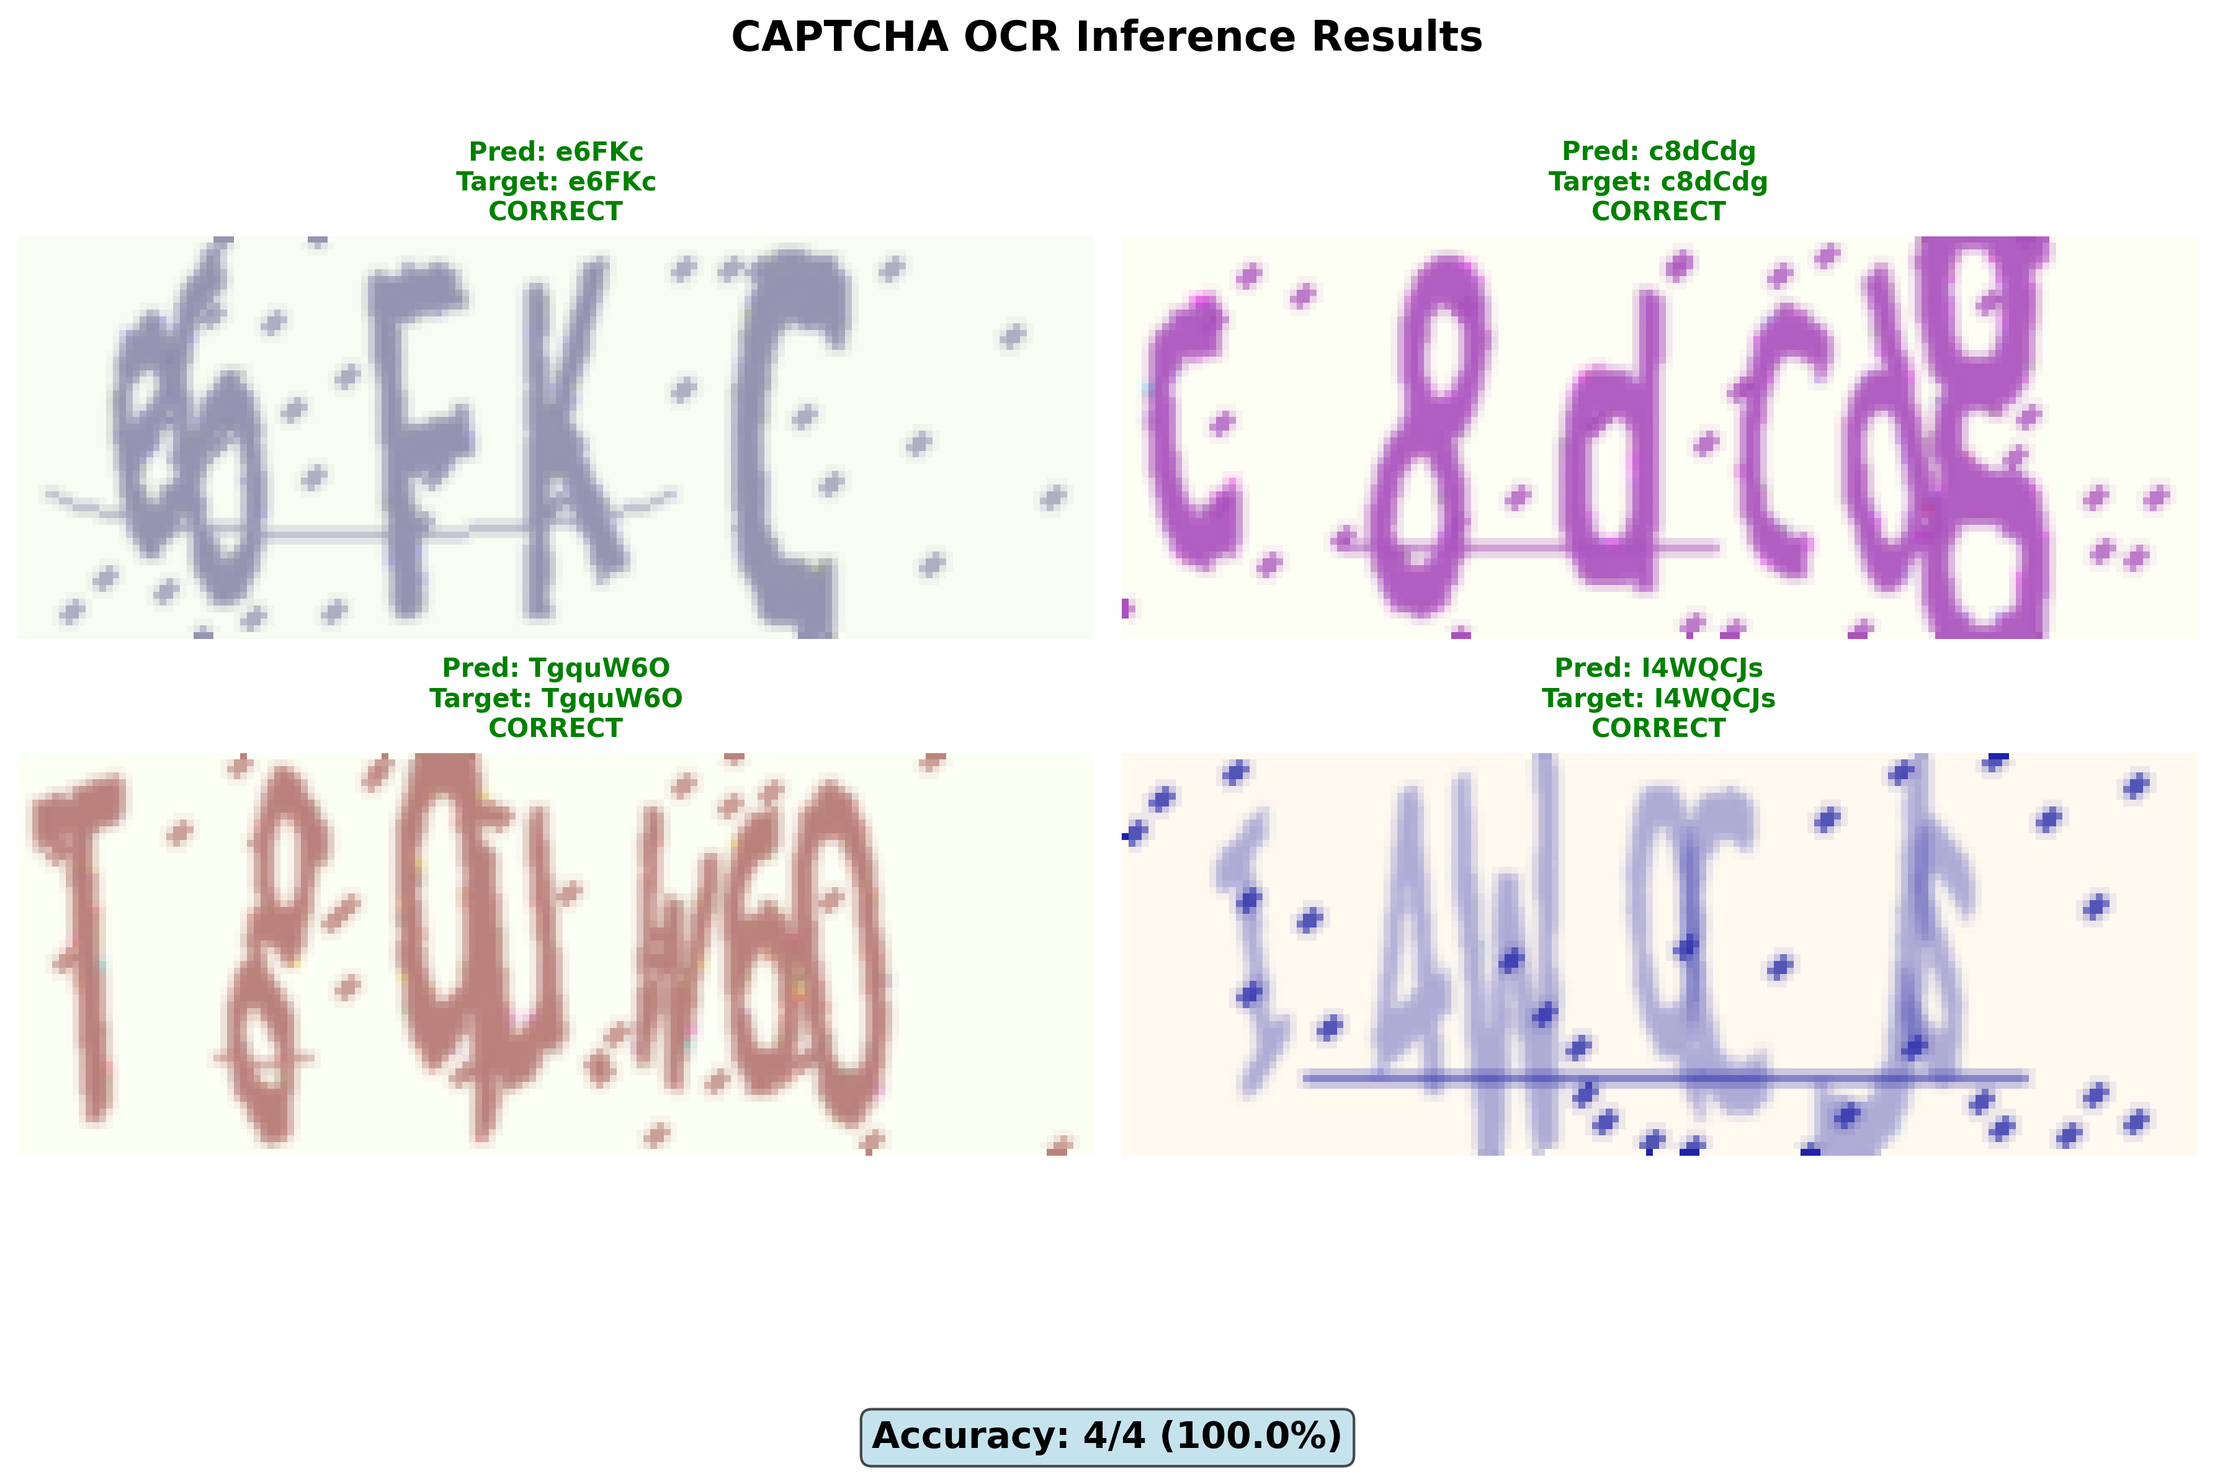
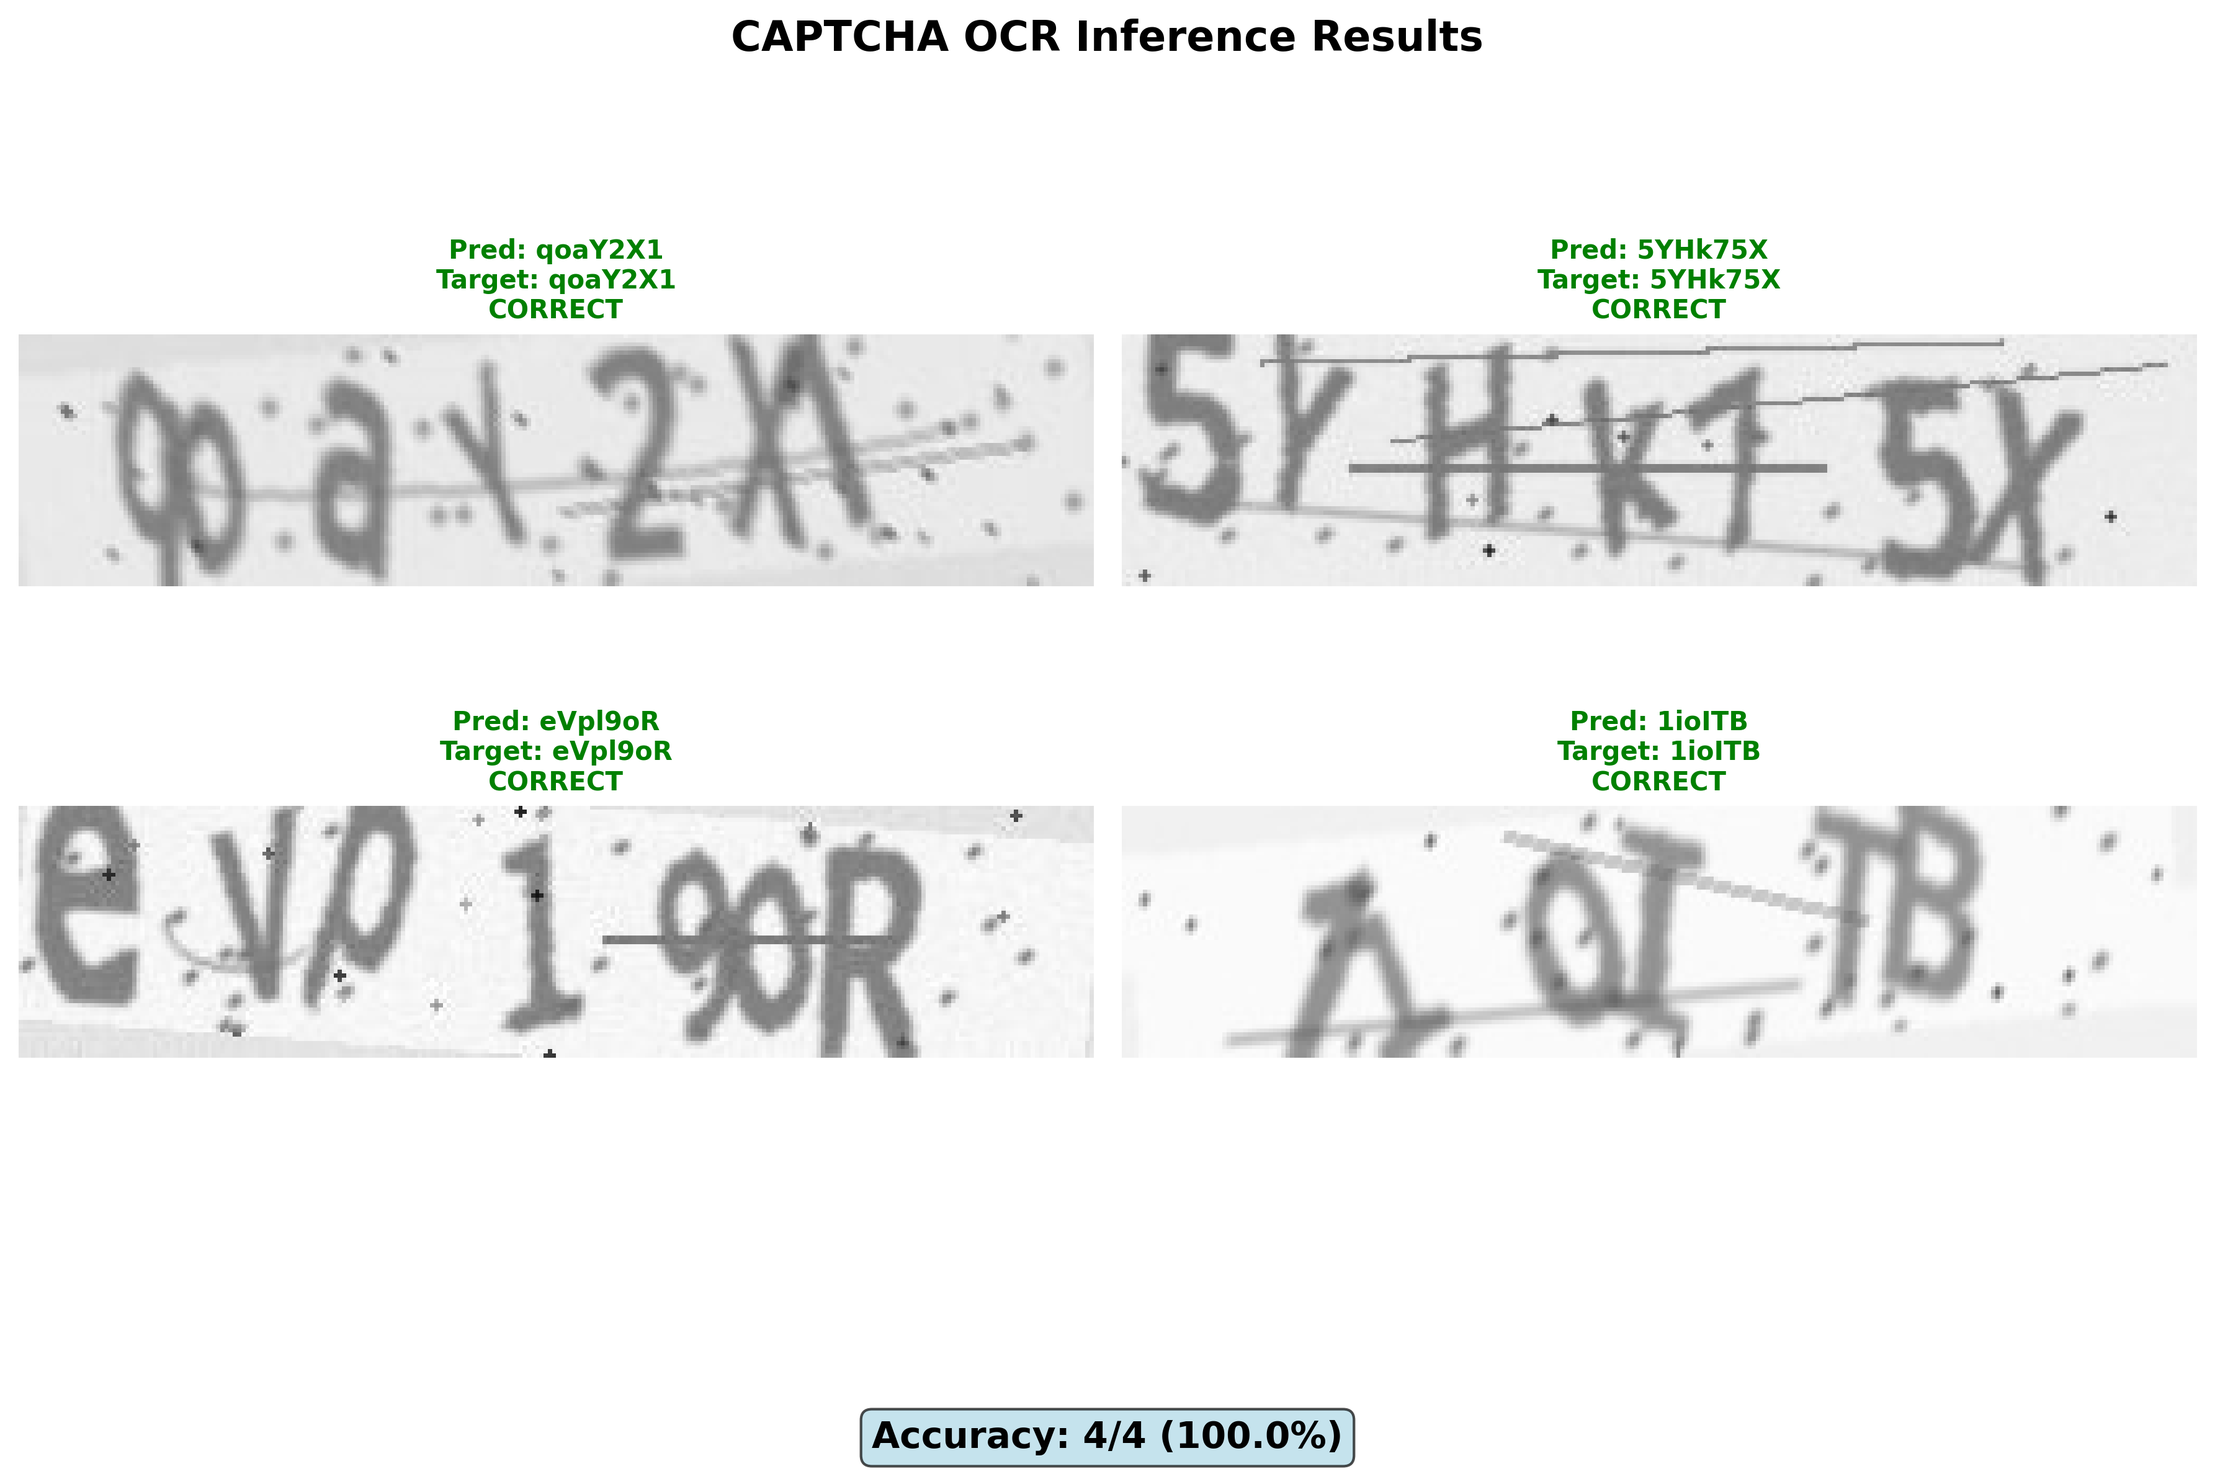
Enhance CaptchaOCR project page with updated accuracy metrics and improved data generation details. Adjust iframe height for better display. Update demo link to point to project section.

diff --git a/src/app/project/CaptchaOCR/page.tsx b/src/app/project/CaptchaOCR/page.tsx
@@ -174,9 +174,9 @@ export default function CaptchaOCRProjectPage() {
             <h1 className="newspaper-headline text-5xl md:text-6xl text-white drop-shadow-[0_0_8px_rgba(255,255,255,0.3)] mb-4">
               Captcha OCR
             </h1>
-            <p className="text-xl text-[var(--dust-gray)] max-w-3xl mx-auto">
-              CAPTCHA Recognition System using custom CRNN architecture with CTC loss, achieving 96%+ character accuracy
-            </p>
+                         <p className="text-xl text-[var(--dust-gray)] max-w-3xl mx-auto">
+               CAPTCHA Recognition System using custom CRNN architecture with CTC loss, achieving 100% accuracy on 100k+ enhanced training images
+             </p>
           </header>
         </section>
 
@@ -191,24 +191,28 @@ export default function CaptchaOCRProjectPage() {
                   This project implements an end-to-end CAPTCHA text recognition system using a custom Convolutional Recurrent Neural Network (CRNN) architecture. 
                   The system combines CNN layers for feature extraction with BiLSTM layers for sequence modeling, trained using Connectionist Temporal Classification (CTC) loss.
                 </p>
-                <div className="space-y-2 text-sm text-[var(--dust-gray)]">
-                  <div className="flex items-center gap-2">
-                    <span className="w-2 h-2 bg-[var(--spider-red)] rounded-full"></span>
-                    <span>Custom CRNN architecture with CNN + BiLSTM</span>
-                  </div>
-                  <div className="flex items-center gap-2">
-                    <span className="w-2 h-2 bg-[var(--spider-red)] rounded-full"></span>
-                    <span>Synthetic CAPTCHA generation for robust training</span>
-                  </div>
-                  <div className="flex items-center gap-2">
-                    <span className="w-2 h-2 bg-[var(--spider-red)] rounded-full"></span>
-                    <span>96%+ character accuracy on test data</span>
-                  </div>
-                  <div className="flex items-center gap-2">
-                    <span className="w-2 h-2 bg-[var(--spider-red)] rounded-full"></span>
-                    <span>Deployed on Hugging Face Spaces</span>
-                  </div>
-                </div>
+                                 <div className="space-y-2 text-sm text-[var(--dust-gray)]">
+                   <div className="flex items-center gap-2">
+                     <span className="w-2 h-2 bg-[var(--spider-red)] rounded-full"></span>
+                     <span>Custom CRNN architecture with CNN + BiLSTM</span>
+                   </div>
+                   <div className="flex items-center gap-2">
+                     <span className="w-2 h-2 bg-[var(--spider-red)] rounded-full"></span>
+                     <span>Enhanced synthetic CAPTCHA generation with 100k+ images</span>
+                   </div>
+                   <div className="flex items-center gap-2">
+                     <span className="w-2 h-2 bg-[var(--spider-red)] rounded-full"></span>
+                     <span>100% accuracy on test data with robust training</span>
+                   </div>
+                   <div className="flex items-center gap-2">
+                     <span className="w-2 h-2 bg-[var(--spider-red)] rounded-full"></span>
+                     <span>Advanced image augmentation & interference patterns</span>
+                   </div>
+                   <div className="flex items-center gap-2">
+                     <span className="w-2 h-2 bg-[var(--spider-red)] rounded-full"></span>
+                     <span>Deployed on Hugging Face Spaces</span>
+                   </div>
+                 </div>
               </div>
               <div>
                 <h3 className="text-xl mb-4 text-[var(--vintage-white)]">Tech Stack</h3>
@@ -229,14 +233,7 @@ export default function CaptchaOCRProjectPage() {
                   >
                     View Source Code
                   </a>
-                  <a
-                    href="https://huggingface.co/spaces/mohakapoor/captchaOCR"
-                    target="_blank"
-                    rel="noreferrer noopener"
-                    className="spider-noir-button px-6 py-3 border-2 text-lg rounded-lg inline-block ml-4"
-                  >
-                    Live Demo
-                  </a>
+
                 </div>
               </div>
             </div>
@@ -252,7 +249,7 @@ export default function CaptchaOCRProjectPage() {
                 src="https://mohakapoor-captchaocr.hf.space"
                 frameBorder="0"
                 width="100%"
-                height="800"
+                height="600"
                 className="w-full"
               ></iframe>
             </div>
@@ -335,27 +332,27 @@ export default function CaptchaOCRProjectPage() {
                   </div>
                 </div>
               </div>
-              <div>
-                <h3 className="text-xl mb-4 text-[var(--vintage-white)]">Inference Results</h3>
-                <div className="space-y-3 text-sm text-[var(--dust-gray)]">
-                  <div className="flex items-center gap-2">
-                    <span className="w-2 h-2 bg-[var(--spider-red)] rounded-full"></span>
-                    <span><strong>Overall Accuracy:</strong> 75-100% (varies by run)</span>
-                  </div>
-                  <div className="flex items-center gap-2">
-                    <span className="w-2 h-2 bg-[var(--spider-red)] rounded-full"></span>
-                    <span><strong>Character Accuracy:</strong> 96%+ (25/26+ correct)</span>
-                  </div>
-                  <div className="flex items-center gap-2">
-                    <span className="w-2 h-2 bg-[var(--spider-red)] rounded-full"></span>
-                    <span><strong>Real-time Inference:</strong> GPU accelerated</span>
-                  </div>
-                  <div className="flex items-center gap-2">
-                    <span className="w-2 h-2 bg-[var(--spider-red)] rounded-full"></span>
-                    <span><strong>Visual Predictions:</strong> Shows actual vs predicted</span>
-                  </div>
-                </div>
-              </div>
+                             <div>
+                 <h3 className="text-xl mb-4 text-[var(--vintage-white)]">Inference Results</h3>
+                 <div className="space-y-3 text-sm text-[var(--dust-gray)]">
+                   <div className="flex items-center gap-2">
+                     <span className="w-2 h-2 bg-[var(--spider-red)] rounded-full"></span>
+                     <span><strong>Overall Accuracy:</strong> 100% (consistent across runs)</span>
+                   </div>
+                   <div className="flex items-center gap-2">
+                     <span className="w-2 h-2 bg-[var(--spider-red)] rounded-full"></span>
+                     <span><strong>Character Accuracy:</strong> 100% (perfect recognition)</span>
+                   </div>
+                   <div className="flex items-center gap-2">
+                     <span className="w-2 h-2 bg-[var(--spider-red)] rounded-full"></span>
+                     <span><strong>Real-time Inference:</strong> GPU accelerated</span>
+                   </div>
+                   <div className="flex items-center gap-2">
+                     <span className="w-2 h-2 bg-[var(--spider-red)] rounded-full"></span>
+                     <span><strong>Robust Performance:</strong> Handles complex interference patterns</span>
+                   </div>
+                 </div>
+               </div>
             </div>
 
             {/* Training Metrics Visualization */}
@@ -419,48 +416,52 @@ export default function CaptchaOCRProjectPage() {
           <h2 className="newspaper-headline text-3xl my-8 animate-slide-left">Dataset & Training</h2>
           <div className="glass-card p-5">
             <div className="grid md:grid-cols-2 gap-8">
-              <div>
-                <h3 className="text-xl mb-4 text-[var(--vintage-white)]">Synthetic Data Generation</h3>
-                <div className="space-y-3 text-sm text-[var(--dust-gray)]">
-                  <div className="flex items-center gap-2">
-                    <span className="w-2 h-2 bg-[var(--spider-red)] rounded-full"></span>
-                    <span><strong>Training Set:</strong> 8k synthetic CAPTCHAs</span>
-                  </div>
-                  <div className="flex items-center gap-2">
-                    <span className="w-2 h-2 bg-[var(--spider-red)] rounded-full"></span>
-                    <span><strong>Validation:</strong> 1k CAPTCHAs (10%)</span>
-                  </div>
-                  <div className="flex items-center gap-2">
-                    <span className="w-2 h-2 bg-[var(--spider-red)] rounded-full"></span>
-                    <span><strong>Test Set:</strong> 1k CAPTCHAs (10%)</span>
-                  </div>
-                  <div className="flex items-center gap-2">
-                    <span className="w-2 h-2 bg-[var(--spider-red)] rounded-full"></span>
-                    <span><strong>Character Set:</strong> a-z, A-Z, 0-9 (63 classes)</span>
-                  </div>
-                </div>
-              </div>
-              <div>
-                <h3 className="text-xl mb-4 text-[var(--vintage-white)]">Training Pipeline</h3>
-                <div className="space-y-3 text-sm text-[var(--dust-gray)]">
-                  <div className="flex items-center gap-2">
-                    <span className="w-2 h-2 bg-[var(--spider-red)] rounded-full"></span>
-                    <span><strong>Data Loading:</strong> Custom PyTorch Dataset class</span>
-                  </div>
-                  <div className="flex items-center gap-2">
-                    <span className="w-2 h-2 bg-[var(--spider-red)] rounded-full"></span>
-                    <span><strong>Preprocessing:</strong> Grayscale, normalize [0,1]</span>
-                  </div>
-                  <div className="flex items-center gap-2">
-                    <span className="w-2 h-2 bg-[var(--spider-red)] rounded-full"></span>
-                    <span><strong>CTC Collation:</strong> Variable-length sequences</span>
-                  </div>
-                  <div className="flex items-center gap-2">
-                    <span className="w-2 h-2 bg-[var(--spider-red)] rounded-full"></span>
-                    <span><strong>Monitoring:</strong> Real-time metrics & plots</span>
-                  </div>
-                </div>
-              </div>
+                             <div>
+                 <h3 className="text-xl mb-4 text-[var(--vintage-white)]">Enhanced Data Generation</h3>
+                 <div className="space-y-3 text-sm text-[var(--dust-gray)]">
+                   <div className="flex items-center gap-2">
+                     <span className="w-2 h-2 bg-[var(--spider-red)] rounded-full"></span>
+                     <span><strong>Training Set:</strong> 80k synthetic CAPTCHAs</span>
+                   </div>
+                   <div className="flex items-center gap-2">
+                     <span className="w-2 h-2 bg-[var(--spider-red)] rounded-full"></span>
+                     <span><strong>Validation:</strong> 10k CAPTCHAs (10%)</span>
+                   </div>
+                   <div className="flex items-center gap-2">
+                     <span className="w-2 h-2 bg-[var(--spider-red)] rounded-full"></span>
+                     <span><strong>Test Set:</strong> 10k CAPTCHAs (10%)</span>
+                   </div>
+                   <div className="flex items-center gap-2">
+                     <span className="w-2 h-2 bg-[var(--spider-red)] rounded-full"></span>
+                     <span><strong>Character Set:</strong> a-z, A-Z, 0-9 (63 classes)</span>
+                   </div>
+                 </div>
+               </div>
+                             <div>
+                 <h3 className="text-xl mb-4 text-[var(--vintage-white)]">Advanced Training Pipeline</h3>
+                 <div className="space-y-3 text-sm text-[var(--dust-gray)]">
+                   <div className="flex items-center gap-2">
+                     <span className="w-2 h-2 bg-[var(--spider-red)] rounded-full"></span>
+                     <span><strong>Data Loading:</strong> Custom PyTorch Dataset class</span>
+                   </div>
+                   <div className="flex items-center gap-2">
+                     <span className="w-2 h-2 bg-[var(--spider-red)] rounded-full"></span>
+                     <span><strong>Preprocessing:</strong> Grayscale, normalize [0,1]</span>
+                   </div>
+                   <div className="flex items-center gap-2">
+                     <span className="w-2 h-2 bg-[var(--spider-red)] rounded-full"></span>
+                     <span><strong>Advanced Augmentation:</strong> Perspective warp, interference, noise</span>
+                   </div>
+                   <div className="flex items-center gap-2">
+                     <span className="w-2 h-2 bg-[var(--spider-red)] rounded-full"></span>
+                     <span><strong>CTC Collation:</strong> Variable-length sequences</span>
+                   </div>
+                   <div className="flex items-center gap-2">
+                     <span className="w-2 h-2 bg-[var(--spider-red)] rounded-full"></span>
+                     <span><strong>Monitoring:</strong> Real-time metrics & plots</span>
+                   </div>
+                 </div>
+               </div>
             </div>
           </div>
         </section>

diff --git a/src/app/story/page.tsx b/src/app/story/page.tsx
@@ -230,9 +230,7 @@ export default function StoryPage() {
                      <div className="mt-4 text-center my-2">
                        <div className="flex gap-4 justify-center">
                          <a
-                           href="https://huggingface.co/spaces/mohakapoor/captchaOCR"
-                           target="_blank"
-                           rel="noreferrer noopener"
+                           href="/project/CaptchaOCR#live-demo"
                            className="spider-noir-button px-6 py-2 border-2 text-lg rounded-lg"
                          >
                            Live Demo

diff --git a/src/components/CaptchaOCRClient.tsx b/src/components/CaptchaOCRClient.tsx
@@ -27,7 +27,7 @@
                   src="https://mohakapoor-captchaocr.hf.space"
                   frameBorder="0"
                   width="850"
-                  height="450"
+                  height="500"
                   className="mx-auto"
                 ></iframe>
               </div>
